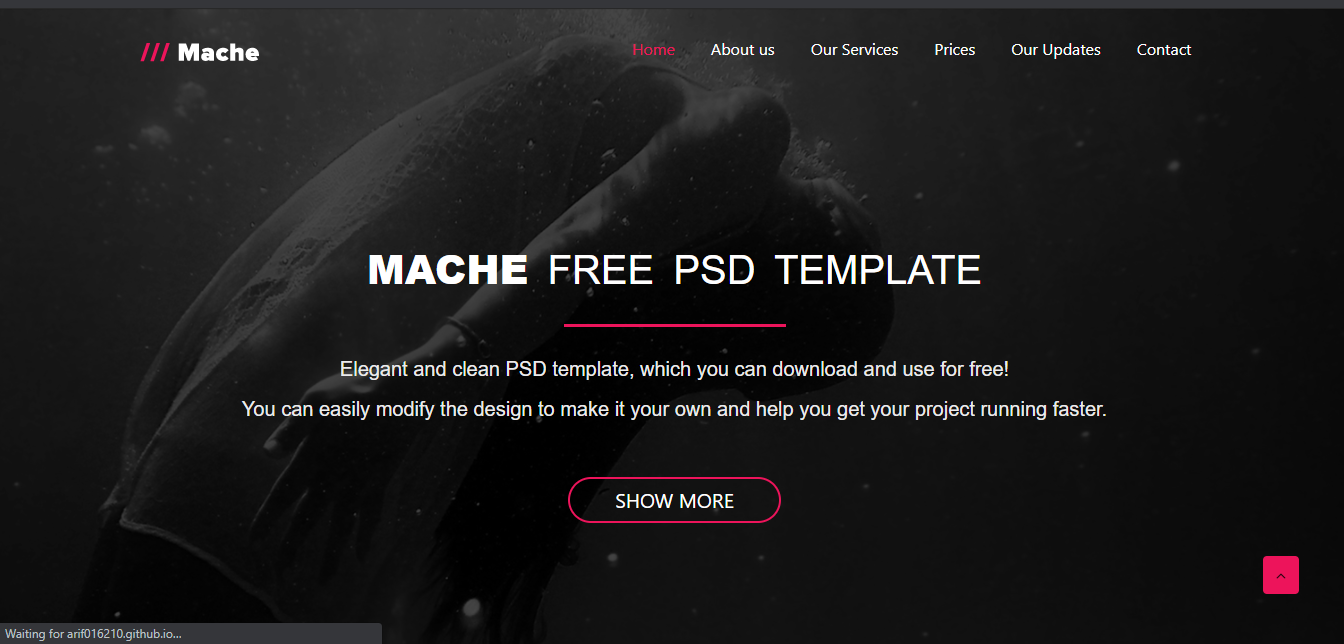
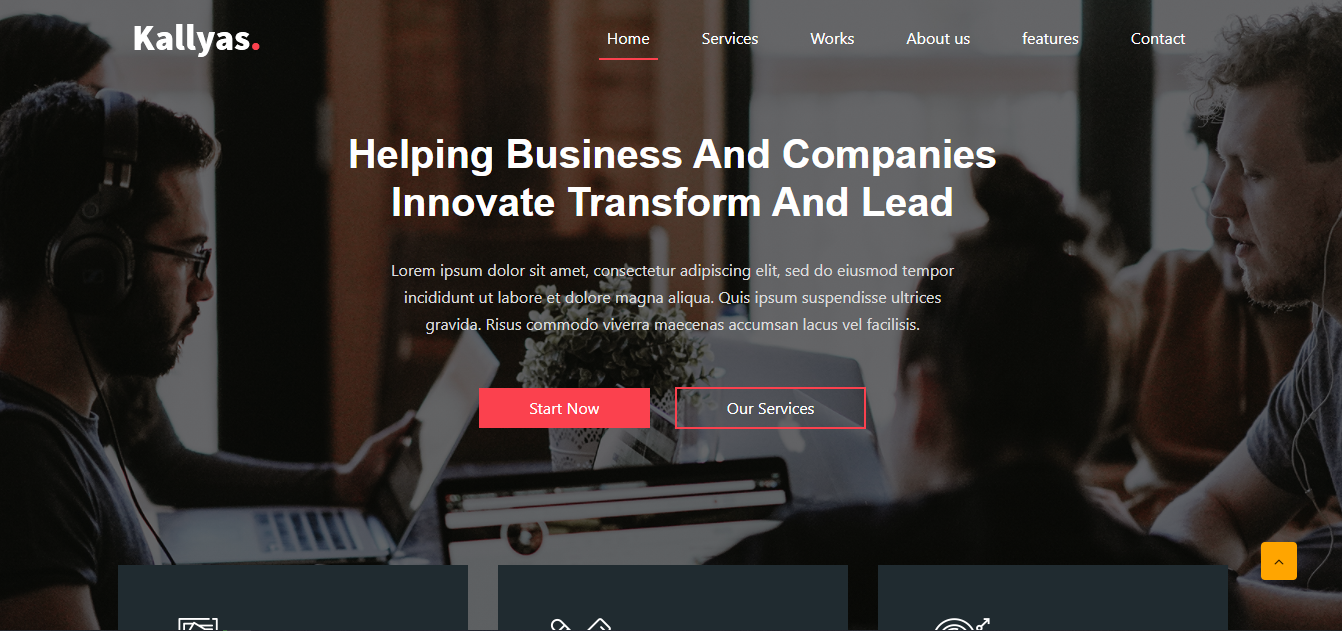
update projects

diff --git a/portfolio.html b/portfolio.html
@@ -505,13 +505,24 @@
         <!-- React Projects Section End -->
 
 
+
+
+
+
+
+
+
+
+
         <!-- JavaScript Projects Section Start -->
         <div id="JavaScript" class="w3-container city" style="display:none">
             <h2 class="text-center">JavaScript Projects</h2>
 
-            <!-- Hard Rocking Project Start -->
+
             <div class="container">
                 <div class="row">
+
+                    <!-- Hard Rocking Project Start -->
                     <div class="col-12 col-md-6 col-lg-6 col-xl-4 mb-30">
                         <div class="card">
                             <img class="card-img-top" src="img/projects/hard.png" alt="Card image cap">
@@ -539,13 +550,65 @@
                             </div>
                         </div>
                     </div>
+                    <!-- Hard Rocking Project End -->
+
+                    <!-- Pin-Matcher-JS-Project Start -->
+
+                    <div class="col-12 col-md-6 col-lg-6 col-xl-4 mb-30">
+                        <div class="card">
+                            <img class="card-img-top" src="img/projects/pin.png" alt="Card image cap">
+                            <div class="card-body">
+                                <h4 class="card-title">Pin-Matcher-JS-Project</h4>
+                                <p class="card-text">A single page Javascript Pin Matcher app.This is beautiful app.
+                                </p>
+                                <div class="card-technology">
+                                    <button>JavaScript</button>
+                                    <button>HTML</button>
+                                    <button>CSS</button>
+                                    <button>Bootstrap4</button>
+                                </div>
+                                <div class="card-link">
+                                    <a title="Github" target="_blank"
+                                        href="https://github.com/Arif016210/Pin-Matcher-JS-Project"><i
+                                            class="fa fa-github"></i></a>
+                                    <a title="Link" target="_blank"
+                                        href="https://arif016210.github.io/Pin-Matcher-JS-Project/"><i
+                                            class="fa fa-external-link"></i></a>
+                                </div>
+
+                            </div>
+                        </div>
+                    </div>
+
+                    <!-- Pin-Matcher-JS-Project End -->
                 </div>
             </div>
-            <!-- Hard Rocking Project End -->
+
+
+
 
         </div>
 
         <!-- JavaScript Projects Section End -->
+
+
+
+
+
+
+
+
+
+
+
+
+
+
+
+
+
+
+
 
         <!-- Bootstrap Projects Section Start -->
 
@@ -618,7 +681,7 @@
 
                     <div class="col-12 col-md-6 col-lg-6 col-xl-4 mb-30">
                         <div class="card">
-                            <img class="card-img-top" src="img/projects/hard.png" alt="Card image cap">
+                            <img class="card-img-top" src="img/projects/mache.png" alt="Card image cap">
                             <div class="card-body">
                                 <h4 class="card-title">Mache</h4>
                                 <p class="card-text">Convert To PSD to Bootstrap4. This is single page site This
@@ -626,7 +689,6 @@
                                     fully responsive.
                                 </p>
                                 <div class="card-technology">
-                                    <button>JavaScript</button>
                                     <button>HTML</button>
                                     <button>CSS</button>
                                     <button>Bootstrap4</button>
@@ -643,6 +705,126 @@
                     </div>
 
                     <!-- Mache Project Section End -->
+
+                    <!-- Kallyas Project Section Start -->
+
+                    <div class="col-12 col-md-6 col-lg-6 col-xl-4 mb-30">
+                        <div class="card">
+                            <img class="card-img-top" src="img/projects/kally.png" alt="Card image cap">
+                            <div class="card-body">
+                                <h4 class="card-title">Kallyas</h4>
+                                <p class="card-text">Convert To PSD to Bootstrap4. This is single page site This
+                                    Project is
+                                    fully responsive.
+                                </p>
+                                <div class="card-technology">
+                                    <button>HTML</button>
+                                    <button>CSS</button>
+                                    <button>Bootstrap4</button>
+                                </div>
+                                <div class="card-link">
+                                    <a title="Github" target="_blank"
+                                        href="https://github.com/Arif016210/Kallyas-Template-PSD-Project"><i
+                                            class="fa fa-github"></i></a>
+                                    <a title="Link" target="_blank"
+                                        href="https://arif016210.github.io/Kallyas-Template-PSD-Project/"><i
+                                            class="fa fa-external-link"></i></a>
+                                </div>
+
+                            </div>
+                        </div>
+                    </div>
+
+                    <!-- Kallyas Project Section End -->
+
+                    <!-- Simple Portfolio Project Section Start -->
+
+                    <div class="col-12 col-md-6 col-lg-6 col-xl-4 mb-30">
+                        <div class="card">
+                            <img class="card-img-top" src="img/projects/portfolio.png" alt="Card image cap">
+                            <div class="card-body">
+                                <h4 class="card-title">Simple Portfolio</h4>
+                                <p class="card-text">This is single page site This
+                                    Project build core HTML & CSS.
+                                </p>
+                                <div class="card-technology">
+                                    <button>HTML</button>
+                                    <button>CSS</button>
+                                </div>
+                                <div class="card-link">
+                                    <a title="Github" target="_blank"
+                                        href="https://github.com/Arif016210/My-Portfolio-Project"><i
+                                            class="fa fa-github"></i></a>
+                                    <a title="Link" target="_blank"
+                                        href="https://arif016210.github.io/My-Portfolio-Project/"><i
+                                            class="fa fa-external-link"></i></a>
+                                </div>
+
+                            </div>
+                        </div>
+                    </div>
+
+                    <!-- Simple Portfolio Project Section End -->
+
+                    <!-- Simple Portfolio2 Project Section Start -->
+
+                    <div class="col-12 col-md-6 col-lg-6 col-xl-4 mb-30">
+                        <div class="card">
+                            <img class="card-img-top" src="img/projects/assignPort.png" alt="Card image cap">
+                            <div class="card-body">
+                                <h4 class="card-title">Portfolio Assignment Project</h4>
+                                <p class="card-text">This is single page site This
+                                    Project build core HTML & CSS.
+                                </p>
+                                <div class="card-technology">
+                                    <button>HTML</button>
+                                    <button>CSS</button>
+                                </div>
+                                <div class="card-link">
+                                    <a title="Github" target="_blank"
+                                        href="https://github.com/Arif016210/My-First-Assignment-Project"><i
+                                            class="fa fa-github"></i></a>
+                                    <a title="Link" target="_blank"
+                                        href="https://arif016210.github.io/My-First-Assignment-Project/"><i
+                                            class="fa fa-external-link"></i></a>
+                                </div>
+
+                            </div>
+                        </div>
+                    </div>
+
+                    <!-- Simple Portfolio2 Project Section End -->
+
+                    <!-- Panda-Commerce Project Section Start -->
+
+                    <div class="col-12 col-md-6 col-lg-6 col-xl-4 mb-30">
+                        <div class="card">
+                            <img class="card-img-top" src="img/projects/panda.png" alt="Card image cap">
+                            <div class="card-body">
+                                <h4 class="card-title">Panda Commerce</h4>
+                                <p class="card-text">Convert To PSD to Bootstrap4. This is single page site This
+                                    Project is
+                                    fully responsive.
+                                </p>
+                                <div class="card-technology">
+                                    <button>HTML</button>
+                                    <button>CSS</button>
+                                    <button>Bootstrap4</button>
+                                </div>
+                                <div class="card-link">
+                                    <a title="Github" target="_blank"
+                                        href="https://github.com/Arif016210/Panda-Commerce-Project-Bootstrap-"><i
+                                            class="fa fa-github"></i></a>
+                                    <a title="Link" target="_blank"
+                                        href="https://arif016210.github.io/Panda-Commerce-Project-Bootstrap-/"><i
+                                            class="fa fa-external-link"></i></a>
+                                </div>
+
+                            </div>
+                        </div>
+                    </div>
+
+                    <!-- Panda-Commerce Project Section End -->
                 </div>
             </div>
 

diff --git a/about.html b/about.html
@@ -192,31 +192,32 @@
                         <div class="col-12 skill-content">
                             <h4>Comfortable:</h4>
                             <button>Javascript</button>
-                            <button>React.js</button>
+                            <button>React</button>
                             <button>ES6</button>
-                            <button>MySQL</button>
-                            <button>Firebase</button>
+                            <button>React Bootstrap</button>
+                            <button>Bootstrap4</button>
                             <button>C</button>
-                            <button>MongoDB</button>
+                            <button>HTML</button>
+                            <button>CSS</button>
                         </div>
                         <div class="col-12 skill-content">
                             <h4>Familiar:</h4>
                             <button>Node.js</button>
                             <button>Express.js</button>
-                            <button>SCSS</button>
-                            <button>Java</button>
-                            <button>PHP</button>
+                            <button>Vue</button>
                             <button>Rest API</button>
                             <button>Wordpress</button>
-                            <button>jQuery</button>
+                            <button>Python</button>
+                            <button>MongoDB</button>
                         </div>
                         <div class="col-12 skill-content">
                             <h4>Tools:</h4>
-                            <button>Github</button>
+                            <button>Git</button>
                             <button>Chrome Dev Tools</button>
                             <button>VS Code</button>
                             <button>NPM</button>
                             <button>Sublime Text</button>
+                            <button>Firebase</button>
                         </div>
                     </div>
                 </div>
@@ -278,7 +279,7 @@
                 </div>
                 <div class="col-6 col-md-3 mb-3 mb-sm-5">
                     <div class="c100 p95">
-                        <span>80%</span>
+                        <span>65%</span>
                         <div class="slice">
                             <div class="bar"></div>
                             <div class="fill"></div>
@@ -296,16 +297,7 @@
                     </div>
                     <h6 class="text-uppercase open-sans-font text-center mt-2 mt-sm-4">Wordpress</h6>
                 </div>
-                <div class="col-6 col-md-3 mb-3 mb-sm-5">
-                    <div class="c100 p65">
-                        <span>65%</span>
-                        <div class="slice">
-                            <div class="bar"></div>
-                            <div class="fill"></div>
-                        </div>
-                    </div>
-                    <h6 class="text-uppercase open-sans-font text-center mt-2 mt-sm-4">Java</h6>
-                </div>
+
                 <div class="col-6 col-md-3 mb-3 mb-sm-5">
                     <div class="c100 p75">
                         <span>75%</span>
@@ -314,7 +306,7 @@
                             <div class="fill"></div>
                         </div>
                     </div>
-                    <h6 class="text-uppercase open-sans-font text-center mt-2 mt-sm-4">MongoDB</h6>
+                    <h6 class="text-uppercase open-sans-font text-center mt-2 mt-sm-4">Bootstrap 4</h6>
                 </div>
             </div>
             <!-- Skills Ends -->

diff --git a/index.html b/index.html
@@ -160,15 +160,13 @@
                     <h4 class="text-uppercase open-sans-font mb-0 d-block d-sm-none d-lg-block">Hello, I'm</h4>
                     <h1>MD. Ariful Islam</h1>
                     <h3 class="text-uppercase poppins-font">
-                        <li>Web Developer</li>
-                        <li>&</li>
-                        <li>Programmer</li>
+                        <li>Front-end Web Developer</li>
                     </h3>
                     <p class="open-sans-font">Hey, I am Md. Ariful Islam from Bangladesh. I am a Front End developer &
                         computer programmer with building websites and web applications. I count myself as a hardworking
                         person. I love taking on challenges and love being part of the solution. Take a look at my work
                         or get in touch!</p>
-                    <a href="https://drive.google.com/file/d/1P2ukZ9Aks5j5aZkx_-16H25vK0hHx4c3/view?usp=sharing"
+                    <a href="https://doc-0c-7o-docs.googleusercontent.com/docs/securesc/u652h5jvqumjne2c389sejme0rhn9t5m/25s5uhj64gcr1oihnjaq174a0l51qjh0/1613320950000/05497877559454389851/05497877559454389851/1aliQI381W5b55nzr_ExJpy0inEm0WbV0?e=download&authuser=3"
                         target="_blank" class="btn btn-download">Download Resume</a>
                 </div>
             </div>

diff --git a/contact.html b/contact.html
@@ -166,11 +166,11 @@
                         projects, creative ideas or opportunities to be part of your visions.</p>
                     <p class="open-sans-font custom-span-contact position-relative">
                         <i class="fa fa-envelope-open position-absolute"></i>
-                        <span class="d-block">mail me</span>arifulislamwasim@gmail.com
+                        <span class="d-block">mail me</span>programmer.arif13@gmail.com
                     </p>
                     <p class="open-sans-font custom-span-contact position-relative">
                         <i class="fa fa-phone-square position-absolute"></i>
-                        <span class="d-block">call me</span>+880 1621090819
+                        <span class="d-block">call me</span>+880 1515601413
                     </p>
                     <ul class="social list-unstyled pt-1 mb-5">
                         <li class="linkedin"><a title="Linkedin" target="_blank"
